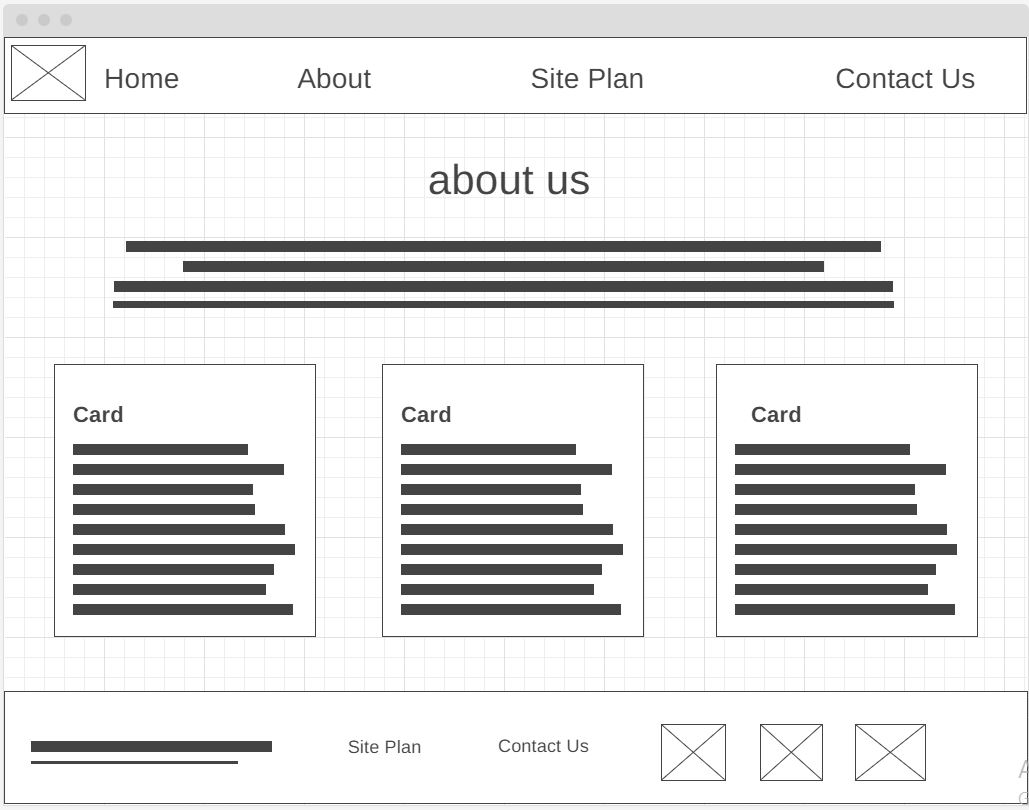
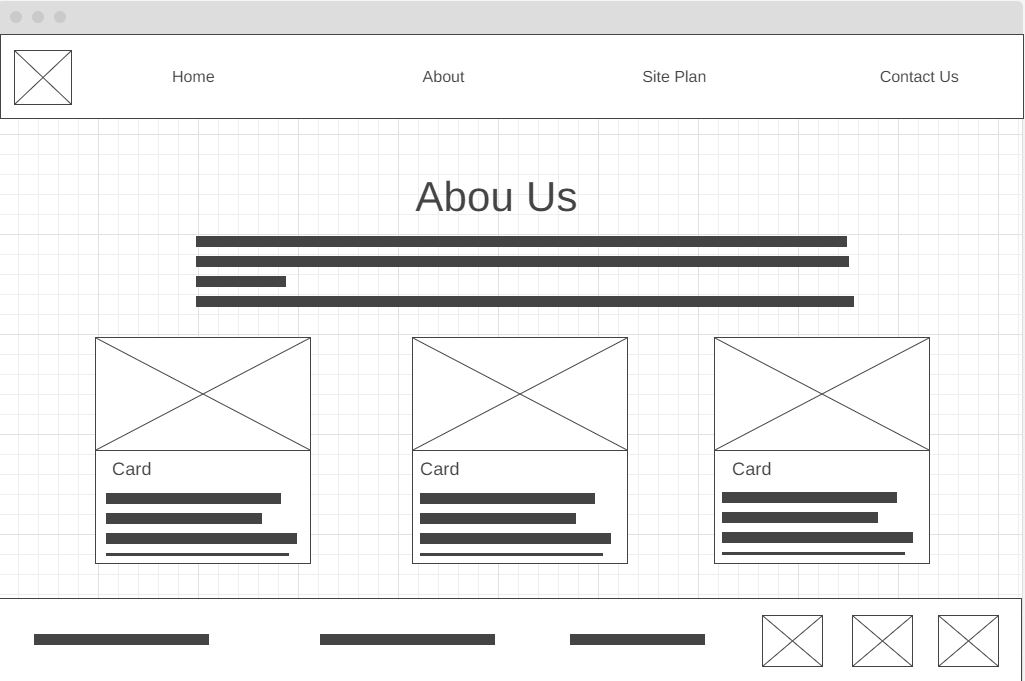
Initial

diff --git a/wwr/raf_about.html b/wwr/raf_about.html
@@ -21,6 +21,32 @@
       <a href="contact.html">Contoct Us</a>
     </nav>  
   </header>
+  <body>
+    <div>
+        <h1>About <Span>Us</Span></h1>
+        <P>Lorem ipsum dolor sit amet consectetur adipisicing elit. Repudiandae iste hic, iusto libero asperiores nulla corporis cum, numquam dolorum veritatis voluptas deleniti. Nesciunt neque magnam, vero aut minus omnis quas?</P>
+
+    </div>
+    <section class="container">
+        <div class="card">
+            <div class="card-image"></div>
+            <h2>River</h2>
+            <p>Lorem ipsum dolor sit amet consectetur adipisicing elit. Incidunt molestias sit,</p>
+        </div>
+        <div class="card">
+            <div class="card-image"></div>
+            <h2>camping</h2>
+            <p>Lorem ipsum dolor sit amet consectetur adipisicing elit. Incidunt molestias sit,</p>
+        </div>
+        <div class="card">
+            <div class="card-image"></div>
+            <h2>Rapid</h2>
+            <p>Lorem ipsum dolor sit amet consectetur adipisicing elit. Incidunt molestias sit,</p>
+        </div>
+
+    </section>
+   
+  </body>
 
   
   <footer>

diff --git a/wwr/style/raf_about.css b/wwr/style/raf_about.css
@@ -48,6 +48,20 @@
         margin-top: 25px;
     }
 }
+h1{
+    text-align: center;
+    margin-top: 100px;
+    font-family: "Shadows Into Light";
+    font-size: 80px;
+
+}
+p{
+    text-align: center;
+    margin: 100px 150px;
+    font-family:  Inter, Helvetica, sans-serif;
+    font-size: 30px;
+    
+}
 nav a{
     text-align: center;
     padding: 35px;
@@ -55,6 +69,27 @@ nav a{
 
 body{
     background-color: #e7e9e6;
+}
+*{
+    box-sizing: border-box;
+    padding: 0;
+    margin: 0;
+}
+.card{
+    background-color: #343939;
+    color: #e7e9e6;
+    width: 300px;
+    height: 400px;
+    margin: 10px;
+}
+.card-image{
+    background-color: #cf971b;
+}
+
+.container{
+    display: flex;
+    justify-content: center;
+
 }
 
 header{
@@ -123,20 +158,3 @@ footer .social img{
     padding: 15px;
 
 }
-.river-card, .camping-card, .rapids-card{
-    margin: 200px 0;
-}
-.card-img{
-    border: 10px solid #cf971b;
-    transition: transform .5s;
-    box-shadow: 5px 5px 10px #6f7364;
-}
-.card-img:hover{
-    opacity: .6;
-    transform: scale(1.1);
-}
-
-main section img{
-    box-sizing: border-box;
-}
-
